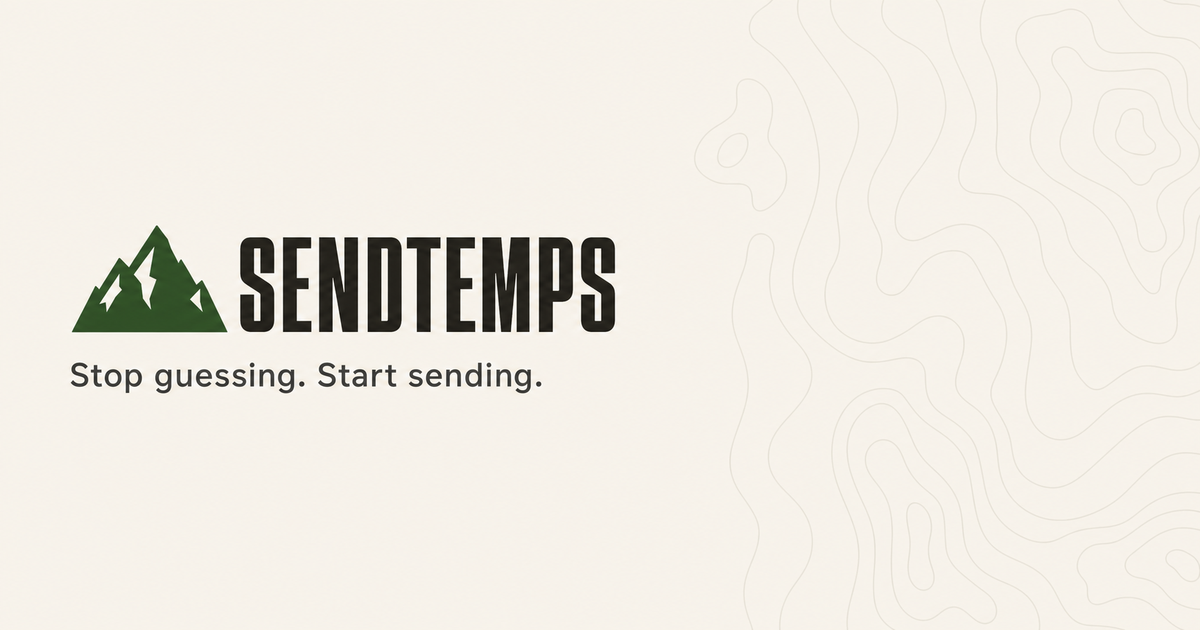
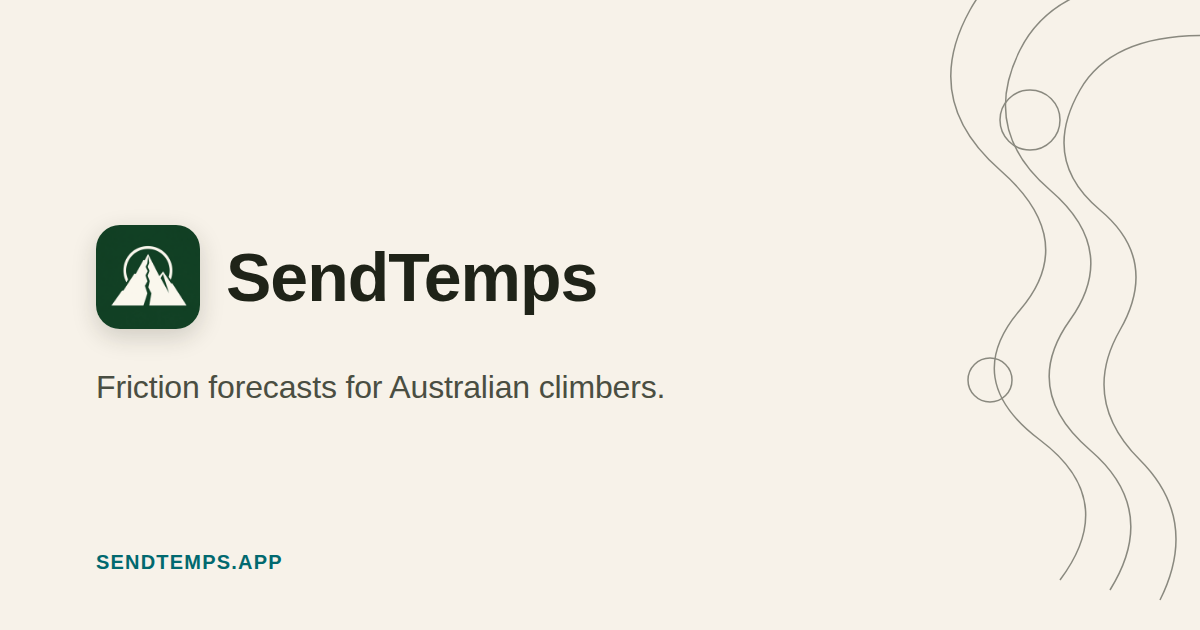
Fix social share preview image + bust stale style.css cache
- Replace og-image.png: old version used a mismatched mountain glyph
  and condensed all-caps wordmark that no longer match the app's real
  icon/brand. New version uses the actual app icon
  (images/brand/app-icon-1024.png) and the same wordmark treatment
  used in the site header.
- Add a content-hash query string (?v=f6f4b5d5) to the style.css link
  on index, privacy, and terms pages. style.css is served with
  cache-control: max-age=14400 and no cache-busting param, so browsers
  that loaded the site before the recent header-offset fix could keep
  serving the old stylesheet for up to 4 hours (or longer with disk
  cache) -- this is almost certainly why the sticky-header bug was
  still visible after the CSS fix was already live.

diff --git a/privacy/index.html b/privacy/index.html
@@ -20,7 +20,7 @@
   <link href="https://api.fontshare.com/v2/css?f[]=switzer@400,500,600&display=swap" rel="stylesheet" />
 
   <link rel="stylesheet" href="../base.css" />
-  <link rel="stylesheet" href="../style.css" />
+  <link rel="stylesheet" href="../style.css?v=f6f4b5d5" />
   <style>
     .legal-page {
       max-width: var(--content-narrow);

diff --git a/terms/index.html b/terms/index.html
@@ -20,7 +20,7 @@
   <link href="https://api.fontshare.com/v2/css?f[]=switzer@400,500,600&display=swap" rel="stylesheet" />
 
   <link rel="stylesheet" href="../base.css" />
-  <link rel="stylesheet" href="../style.css" />
+  <link rel="stylesheet" href="../style.css?v=f6f4b5d5" />
   <style>
     .legal-page {
       max-width: var(--content-narrow);

diff --git a/index.html b/index.html
@@ -39,7 +39,7 @@
   <link href="https://api.fontshare.com/v2/css?f[]=switzer@400,500,600&display=swap" rel="stylesheet" />
 
   <link rel="stylesheet" href="./base.css" />
-  <link rel="stylesheet" href="./style.css" />
+  <link rel="stylesheet" href="./style.css?v=f6f4b5d5" />
 </head>
 <body>
 
